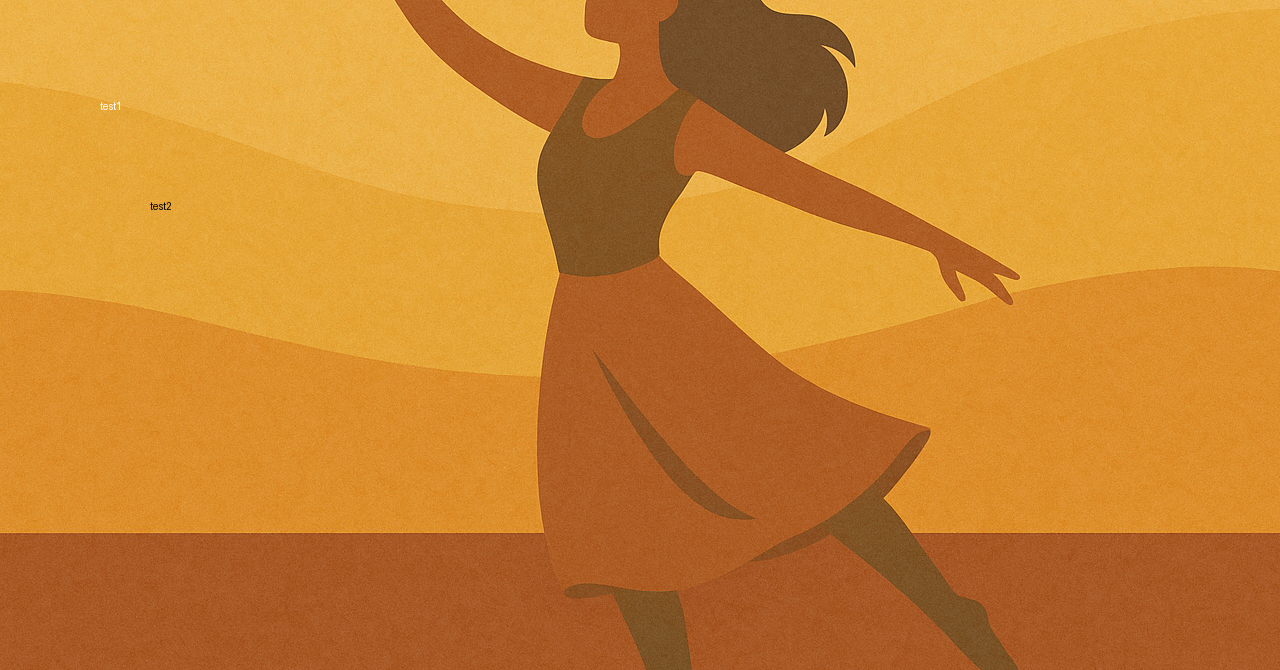
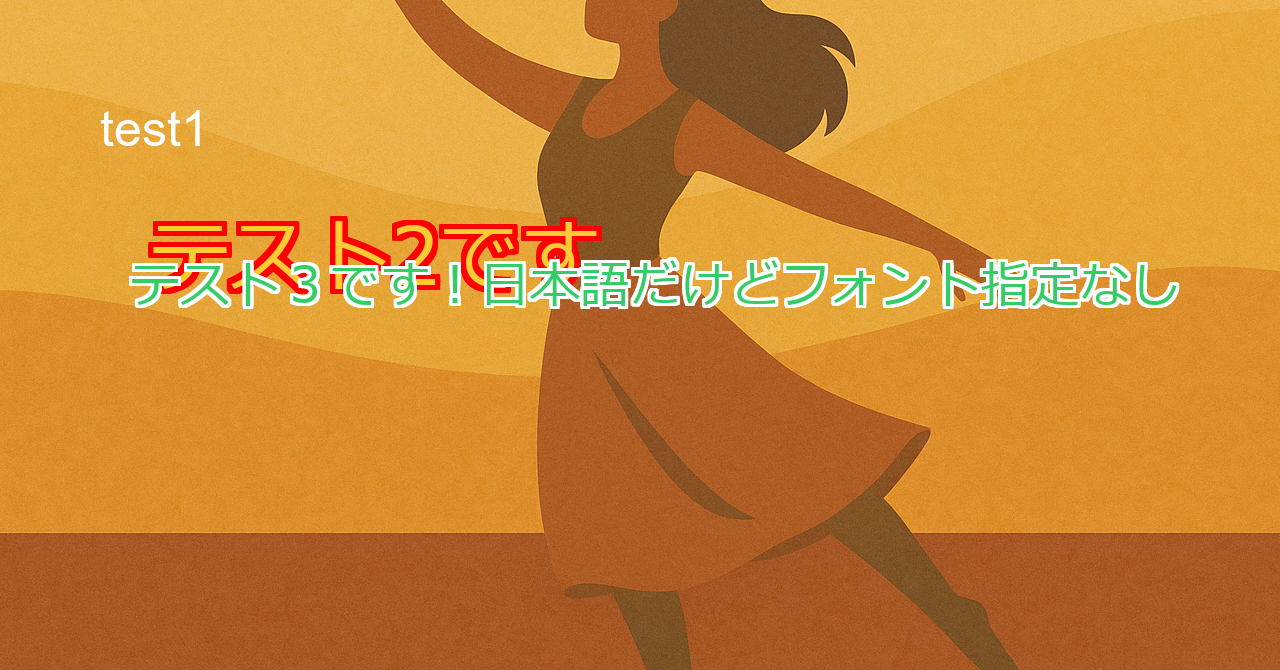
feat(add_text): フォント管理と縁取り機能を追加
- フォントレジストリ(font_registry.py)を新規作成
  - 名前からフォントパスを解決する仕組み
  - デフォルトフォントのフォールバック対応
- add_text.pyの機能強化
  - 16進カラーコード(#RRGGBB, #RRGGBBAA)対応
  - テキスト縁取り(stroke)機能を追加
  - フォントレジストリとの連携
- .gitignoreにsrc/fonts/を追加（再配布不可フォント対策）
- サンプル設定に日本語テキスト・縁取りの例を追加

🤖 Generated with [Claude Code](https://claude.com/claude-code)

Changed region(s): [[0.0938, 0.3284, 0.9375, 0.4776], [0.0625, 0.1493, 0.1562, 0.2388]]

diff --git a/src/handlers/add_text.py b/src/handlers/add_text.py
@@ -1,18 +1,65 @@
 from PIL import ImageDraw, ImageFont
 
+from font_registry import get_font_path
+
+def parse_color(col):
+    if isinstance(col, str) and col.startswith("#"):
+        col = col.lstrip("#")
+        if len(col) == 6:
+            r = int(col[0:2], 16)
+            g = int(col[2:4], 16)
+            h = int(col[4:6], 16)
+            return (r, g, h, 255)
+        if len(col) == 8:
+            r = int(col[0:2], 16)
+            g = int(col[2:4], 16)
+            h = int(col[4:6], 16)
+            a = int(col[6:8], 16)
+            return (r, g, h, a)
+    return col
+
+# 縁取りを描画する
+def write_frame(draw, x, y, text, font_path, font_size, stroke_width, stroke_color):
+    try:
+        font = ImageFont.truetype(font_path, font_size)
+    except:
+        print(f"Font not found: {font_path}")
+        font = ImageFont.load_default()
+
+    for dx in range(-stroke_width, stroke_width + 1):
+        for dy in range(-stroke_width, stroke_width + 1):
+            if dx == 0 and dy == 0:
+                continue
+            draw.text((x + dx, y + dy), text, fill=stroke_color, font=font, font_size=font_size)
+
+
 
 def apply_add_text(img, params):
     draw = ImageDraw.Draw(img)
     text = params["text"]
     x = params["position"]["x"]
     y = params["position"]["y"]
-    font_path = params.get("font", "Arial")
+
+    font_name = params.get("font", "default")
+    font_path = get_font_path(font_name)
     size = params.get("font_size", 20)
-    color = params.get("color", "black")
     try:
         font = ImageFont.truetype(font_path, size)
     except:
+        print(f"Font not found: {font_path}")
         font = ImageFont.load_default()
-    draw.text((x, y), text, fill=color, font=font)
+
+    # strokeがある場合は、widthとcolorを取得して縁取り
+    stroke = params.get("stroke", None)
+    if stroke:
+        stroke_width = stroke.get("width", 1)
+        stroke_col = stroke.get("color", "black")
+        stroke_col = parse_color(stroke_col)
+        write_frame(draw, x, y, text, font_path, size, stroke_width, stroke_col)
+
+    col = params.get("color", "black")
+    col = parse_color(col)
+    
+    draw.text((x, y), text, fill=col, font=font)
     return img
 

diff --git a/src/font_registry.py b/src/font_registry.py
@@ -1,0 +1,26 @@
+from pathlib import Path
+
+
+BASE_DIR = Path(__file__).resolve().parent
+
+
+FONT_FILES = {
+    "default": BASE_DIR / "fonts" / "meiryo.ttc",
+    "arial": BASE_DIR / "fonts" / "arial.ttf",
+    "meiryo": BASE_DIR / "fonts" / "meiryo.ttc",
+    "msgothic": BASE_DIR / "fonts" / "msgothic.ttc",
+    "notosansjp": BASE_DIR / "fonts" / "NotoSansJP-VF.ttf",
+    "yugothic": BASE_DIR / "fonts" / "YuGothR.ttc",
+}
+
+
+def get_font_path(name):
+    key = name.lower()
+    p = FONT_FILES.get(key)
+
+    # 見つけたら返す
+    if p is not None and p.exists():
+        return str(p)
+
+    # 見つからなかったらdefaultを返す
+    return str(FONT_FILES.get("default"))
